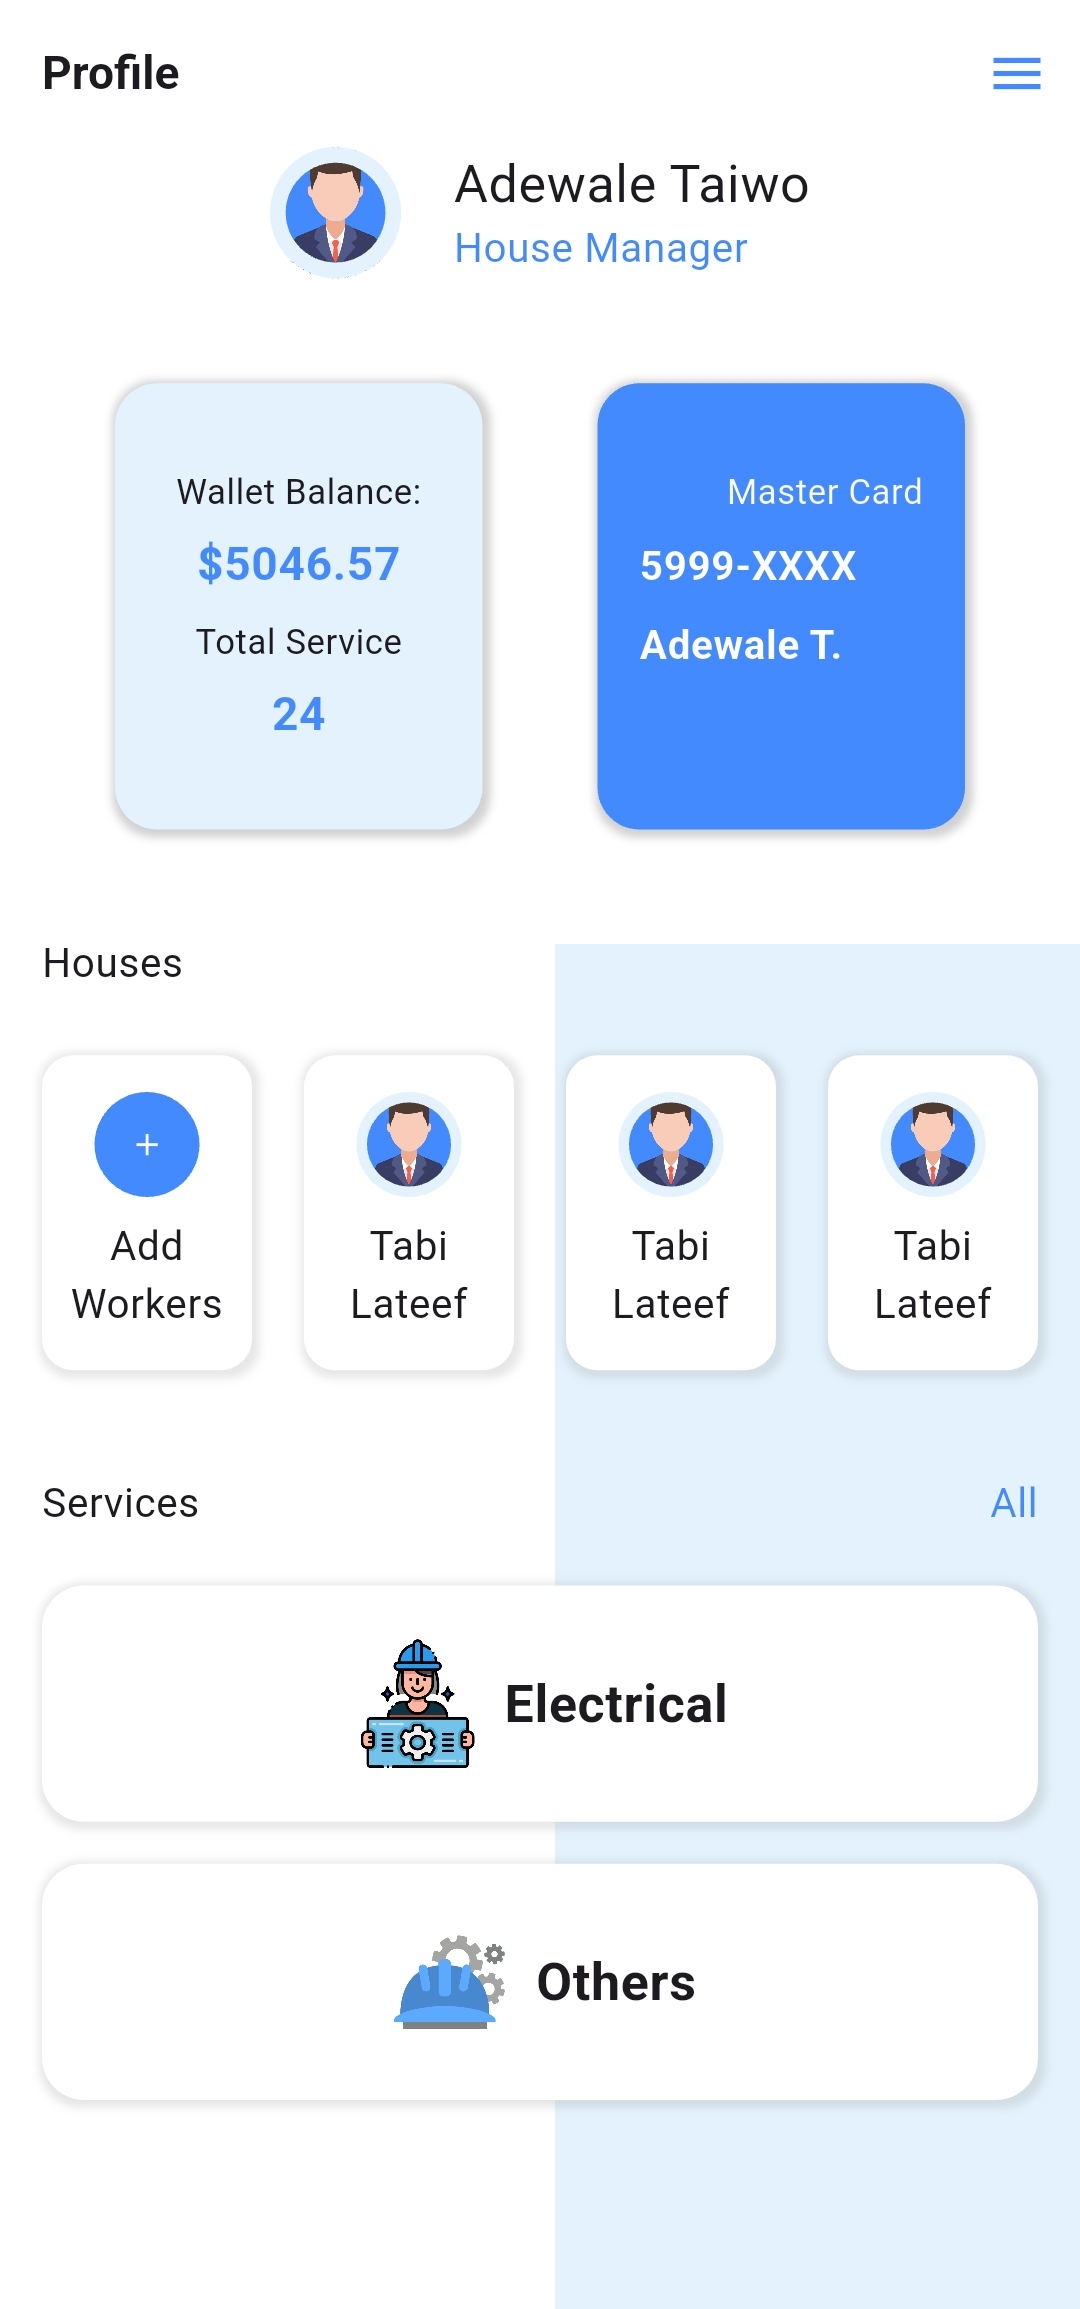
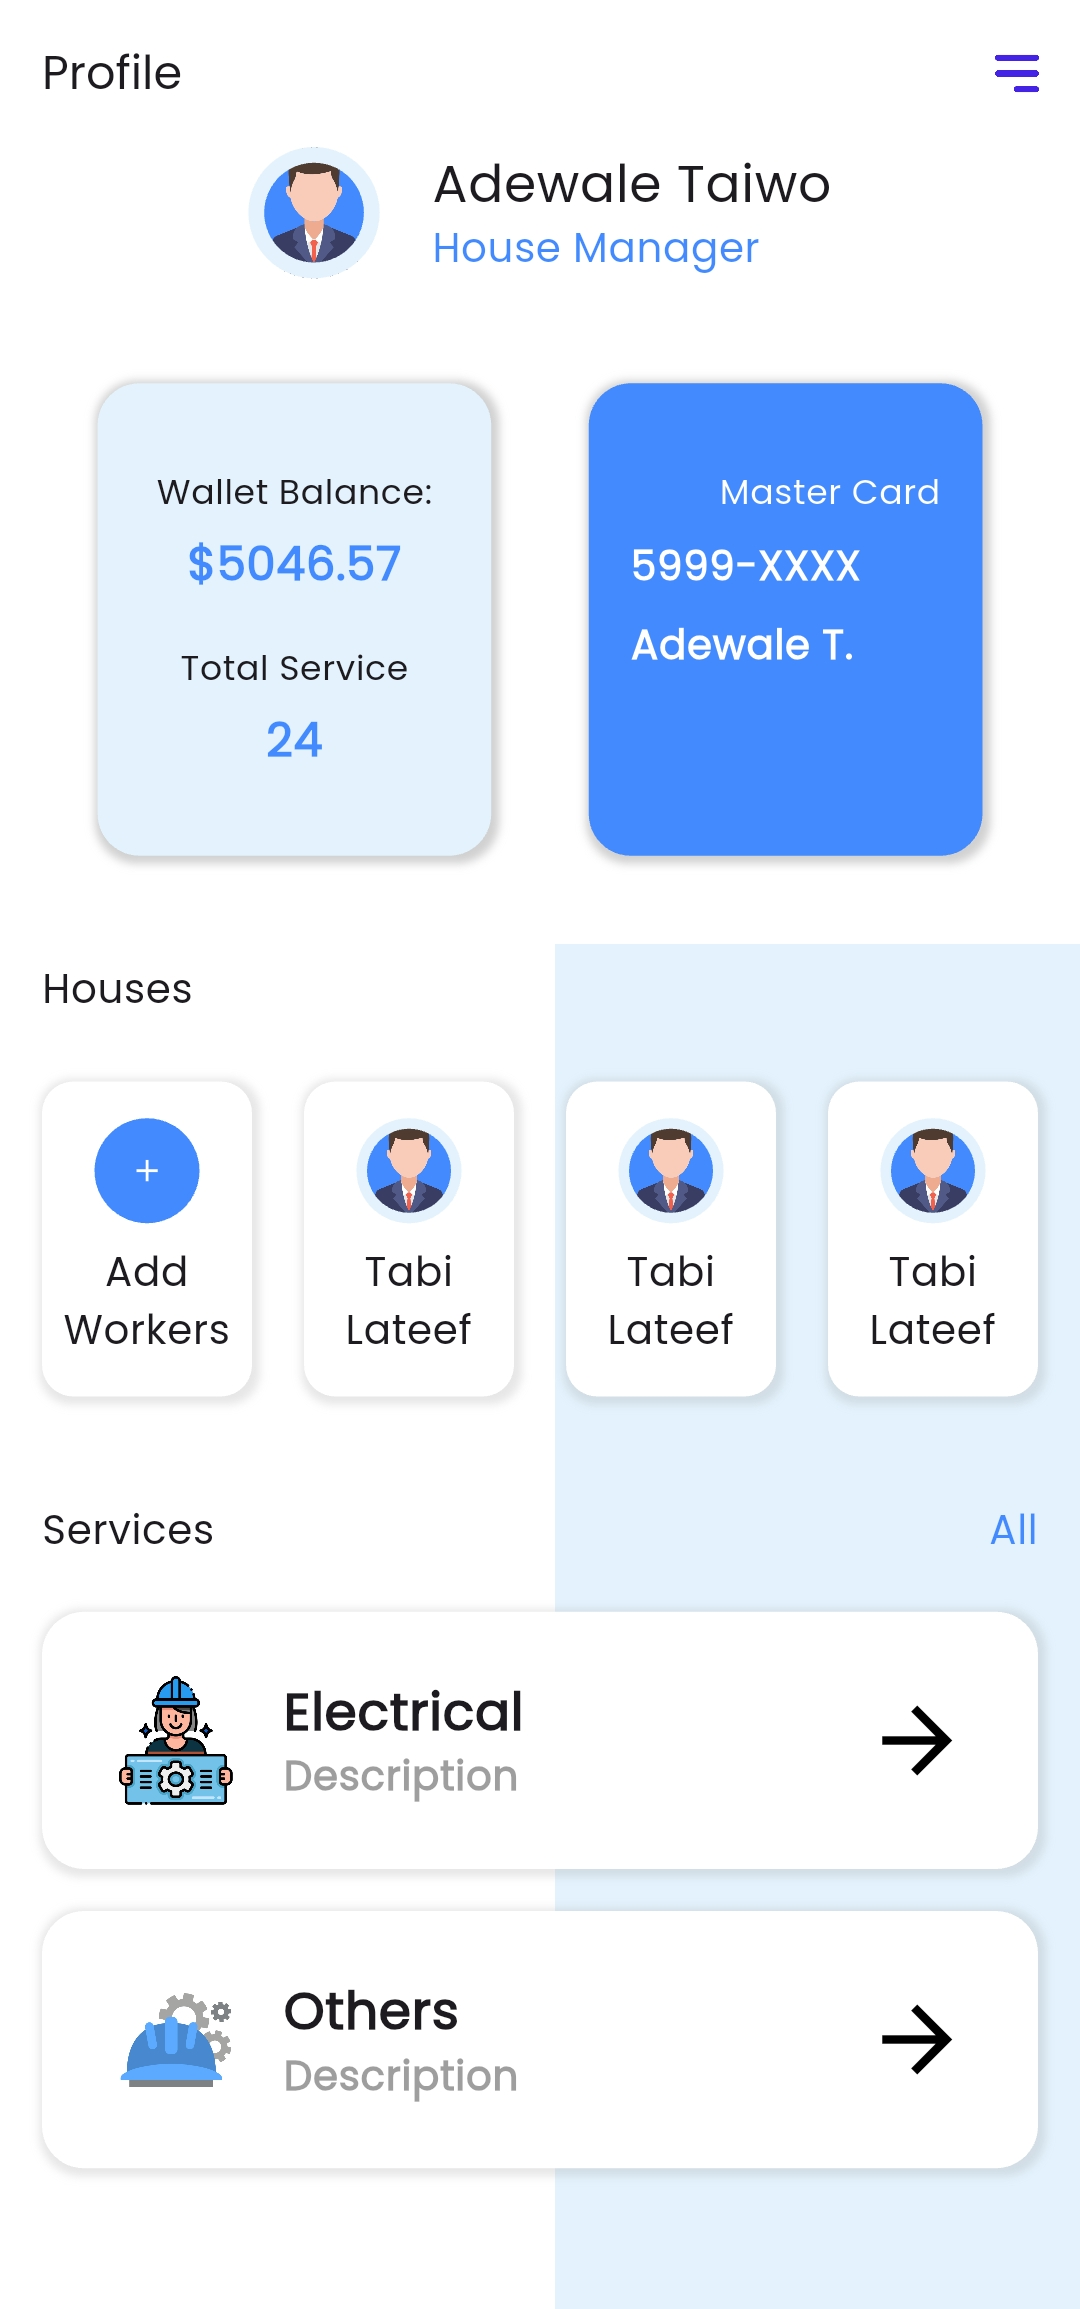
version 2, edit Ui screen

diff --git a/lib/main.dart b/lib/main.dart
@@ -1,4 +1,5 @@
 import 'package:flutter/material.dart';
+import 'package:google_fonts/google_fonts.dart';
 
 void main() {
   runApp(const MyApp());
@@ -11,16 +12,16 @@ class MyApp extends StatelessWidget {
   Widget build(BuildContext context) {
     return MaterialApp(
       debugShowCheckedModeBanner: false,
+      theme: ThemeData(textTheme: GoogleFonts.poppinsTextTheme()),
       title: 'Flutter Ui Task 3',
       home: Scaffold(
         backgroundColor: Colors.white,
         appBar: AppBar(
           backgroundColor: Colors.white,
-          title: Text(
-            "Profile",
-            style: TextStyle(fontSize: 16, fontWeight: FontWeight.bold),
-          ),
-          actions: [Icon(Icons.menu, color: Colors.blueAccent)],
+          title: Text("Profile", style: TextStyle(fontSize: 16)),
+          actions: [
+            Image(image: AssetImage("images/menu.png"), width: 24, height: 24),
+          ],
           actionsPadding: EdgeInsets.only(right: 12),
         ),
         body: Stack(
@@ -69,8 +70,8 @@ class MyApp extends StatelessWidget {
                         vertical: 32,
                         horizontal: 20,
                       ),
-                      height: 170,
-                      width: 140,
+                      height: 180,
+                      width: 150,
                       decoration: BoxDecoration(
                         borderRadius: BorderRadius.circular(16),
                         color: Colors.blue[50],
@@ -131,8 +132,8 @@ class MyApp extends StatelessWidget {
                         vertical: 32,
                         horizontal: 16,
                       ),
-                      height: 170,
-                      width: 140,
+                      height: 180,
+                      width: 150,
                       decoration: BoxDecoration(
                         borderRadius: BorderRadius.circular(16),
                         color: Colors.blueAccent,
@@ -385,7 +386,10 @@ class MyApp extends StatelessWidget {
                         spacing: 16,
                         children: [
                           Container(
-                            padding: EdgeInsets.symmetric(vertical: 20),
+                            padding: EdgeInsets.symmetric(
+                              vertical: 24,
+                              horizontal: 26,
+                            ),
                             decoration: BoxDecoration(
                               borderRadius: BorderRadius.circular(16),
                               color: Colors.white,
@@ -399,26 +403,52 @@ class MyApp extends StatelessWidget {
                               ],
                             ),
                             child: Row(
-                              spacing: 8,
-                              mainAxisAlignment: MainAxisAlignment.center,
+                              mainAxisAlignment: MainAxisAlignment.spaceBetween,
                               children: [
-                                Image(
-                                  image: AssetImage("images/engineer.png"),
-                                  width: 50,
-                                  height: 50,
+                                Row(
+                                  spacing: 16,
+                                  children: [
+                                    Image(
+                                      image: AssetImage("images/engineer.png"),
+                                      width: 50,
+                                      height: 50,
+                                    ),
+                                    Column(
+                                      crossAxisAlignment:
+                                          CrossAxisAlignment.start,
+                                      children: [
+                                        Text(
+                                          "Electrical",
+                                          style: TextStyle(
+                                            fontSize: 18,
+                                            fontWeight: FontWeight.bold,
+                                          ),
+                                        ),
+                                        Text(
+                                          "Description",
+                                          style: TextStyle(
+                                            fontSize: 14,
+                                            color: Colors.grey,
+                                            fontWeight: FontWeight.bold,
+                                          ),
+                                        ),
+                                      ],
+                                    ),
+                                  ],
                                 ),
-                                Text(
-                                  "Electrical",
-                                  style: TextStyle(
-                                    fontSize: 18,
-                                    fontWeight: FontWeight.bold,
-                                  ),
+                                Icon(
+                                  Icons.arrow_forward,
+                                  color: Colors.black,
+                                  size: 40,
                                 ),
                               ],
                             ),
                           ),
                           Container(
-                            padding: EdgeInsets.symmetric(vertical: 20),
+                            padding: EdgeInsets.symmetric(
+                              vertical: 24,
+                              horizontal: 26,
+                            ),
                             decoration: BoxDecoration(
                               borderRadius: BorderRadius.circular(16),
                               color: Colors.white,
@@ -432,20 +462,43 @@ class MyApp extends StatelessWidget {
                               ],
                             ),
                             child: Row(
-                              spacing: 8,
-                              mainAxisAlignment: MainAxisAlignment.center,
+                              mainAxisAlignment: MainAxisAlignment.spaceBetween,
                               children: [
-                                Image(
-                                  image: AssetImage("images/other.png"),
-                                  width: 50,
-                                  height: 50,
+                                Row(
+                                  spacing: 16,
+                                  children: [
+                                    Image(
+                                      image: AssetImage("images/other.png"),
+                                      width: 50,
+                                      height: 50,
+                                    ),
+                                    Column(
+                                      crossAxisAlignment:
+                                          CrossAxisAlignment.start,
+                                      children: [
+                                        Text(
+                                          "Others",
+                                          style: TextStyle(
+                                            fontSize: 18,
+                                            fontWeight: FontWeight.bold,
+                                          ),
+                                        ),
+                                        Text(
+                                          "Description",
+                                          style: TextStyle(
+                                            fontSize: 14,
+                                            color: Colors.grey,
+                                            fontWeight: FontWeight.bold,
+                                          ),
+                                        ),
+                                      ],
+                                    ),
+                                  ],
                                 ),
-                                Text(
-                                  "Others",
-                                  style: TextStyle(
-                                    fontSize: 18,
-                                    fontWeight: FontWeight.bold,
-                                  ),
+                                Icon(
+                                  Icons.arrow_forward,
+                                  color: Colors.black,
+                                  size: 40,
                                 ),
                               ],
                             ),

diff --git a/macos/Flutter/GeneratedPluginRegistrant.swift b/macos/Flutter/GeneratedPluginRegistrant.swift
@@ -5,6 +5,8 @@
 import FlutterMacOS
 import Foundation
 
+import path_provider_foundation
 
 func RegisterGeneratedPlugins(registry: FlutterPluginRegistry) {
+  PathProviderPlugin.register(with: registry.registrar(forPlugin: "PathProviderPlugin"))
 }

diff --git a/README.md b/README.md
@@ -5,6 +5,7 @@ Flutter Ui Task 3
 ## Description
 
 Many Widgets used in this screen, some example: AppBar, Text, Container, Scaffold, Stack, Positioned, Row, Column and i used a container with backgroung image properites.
+Packges: Google Font Packge used to replace app font.
 
 
 ## Screen View
